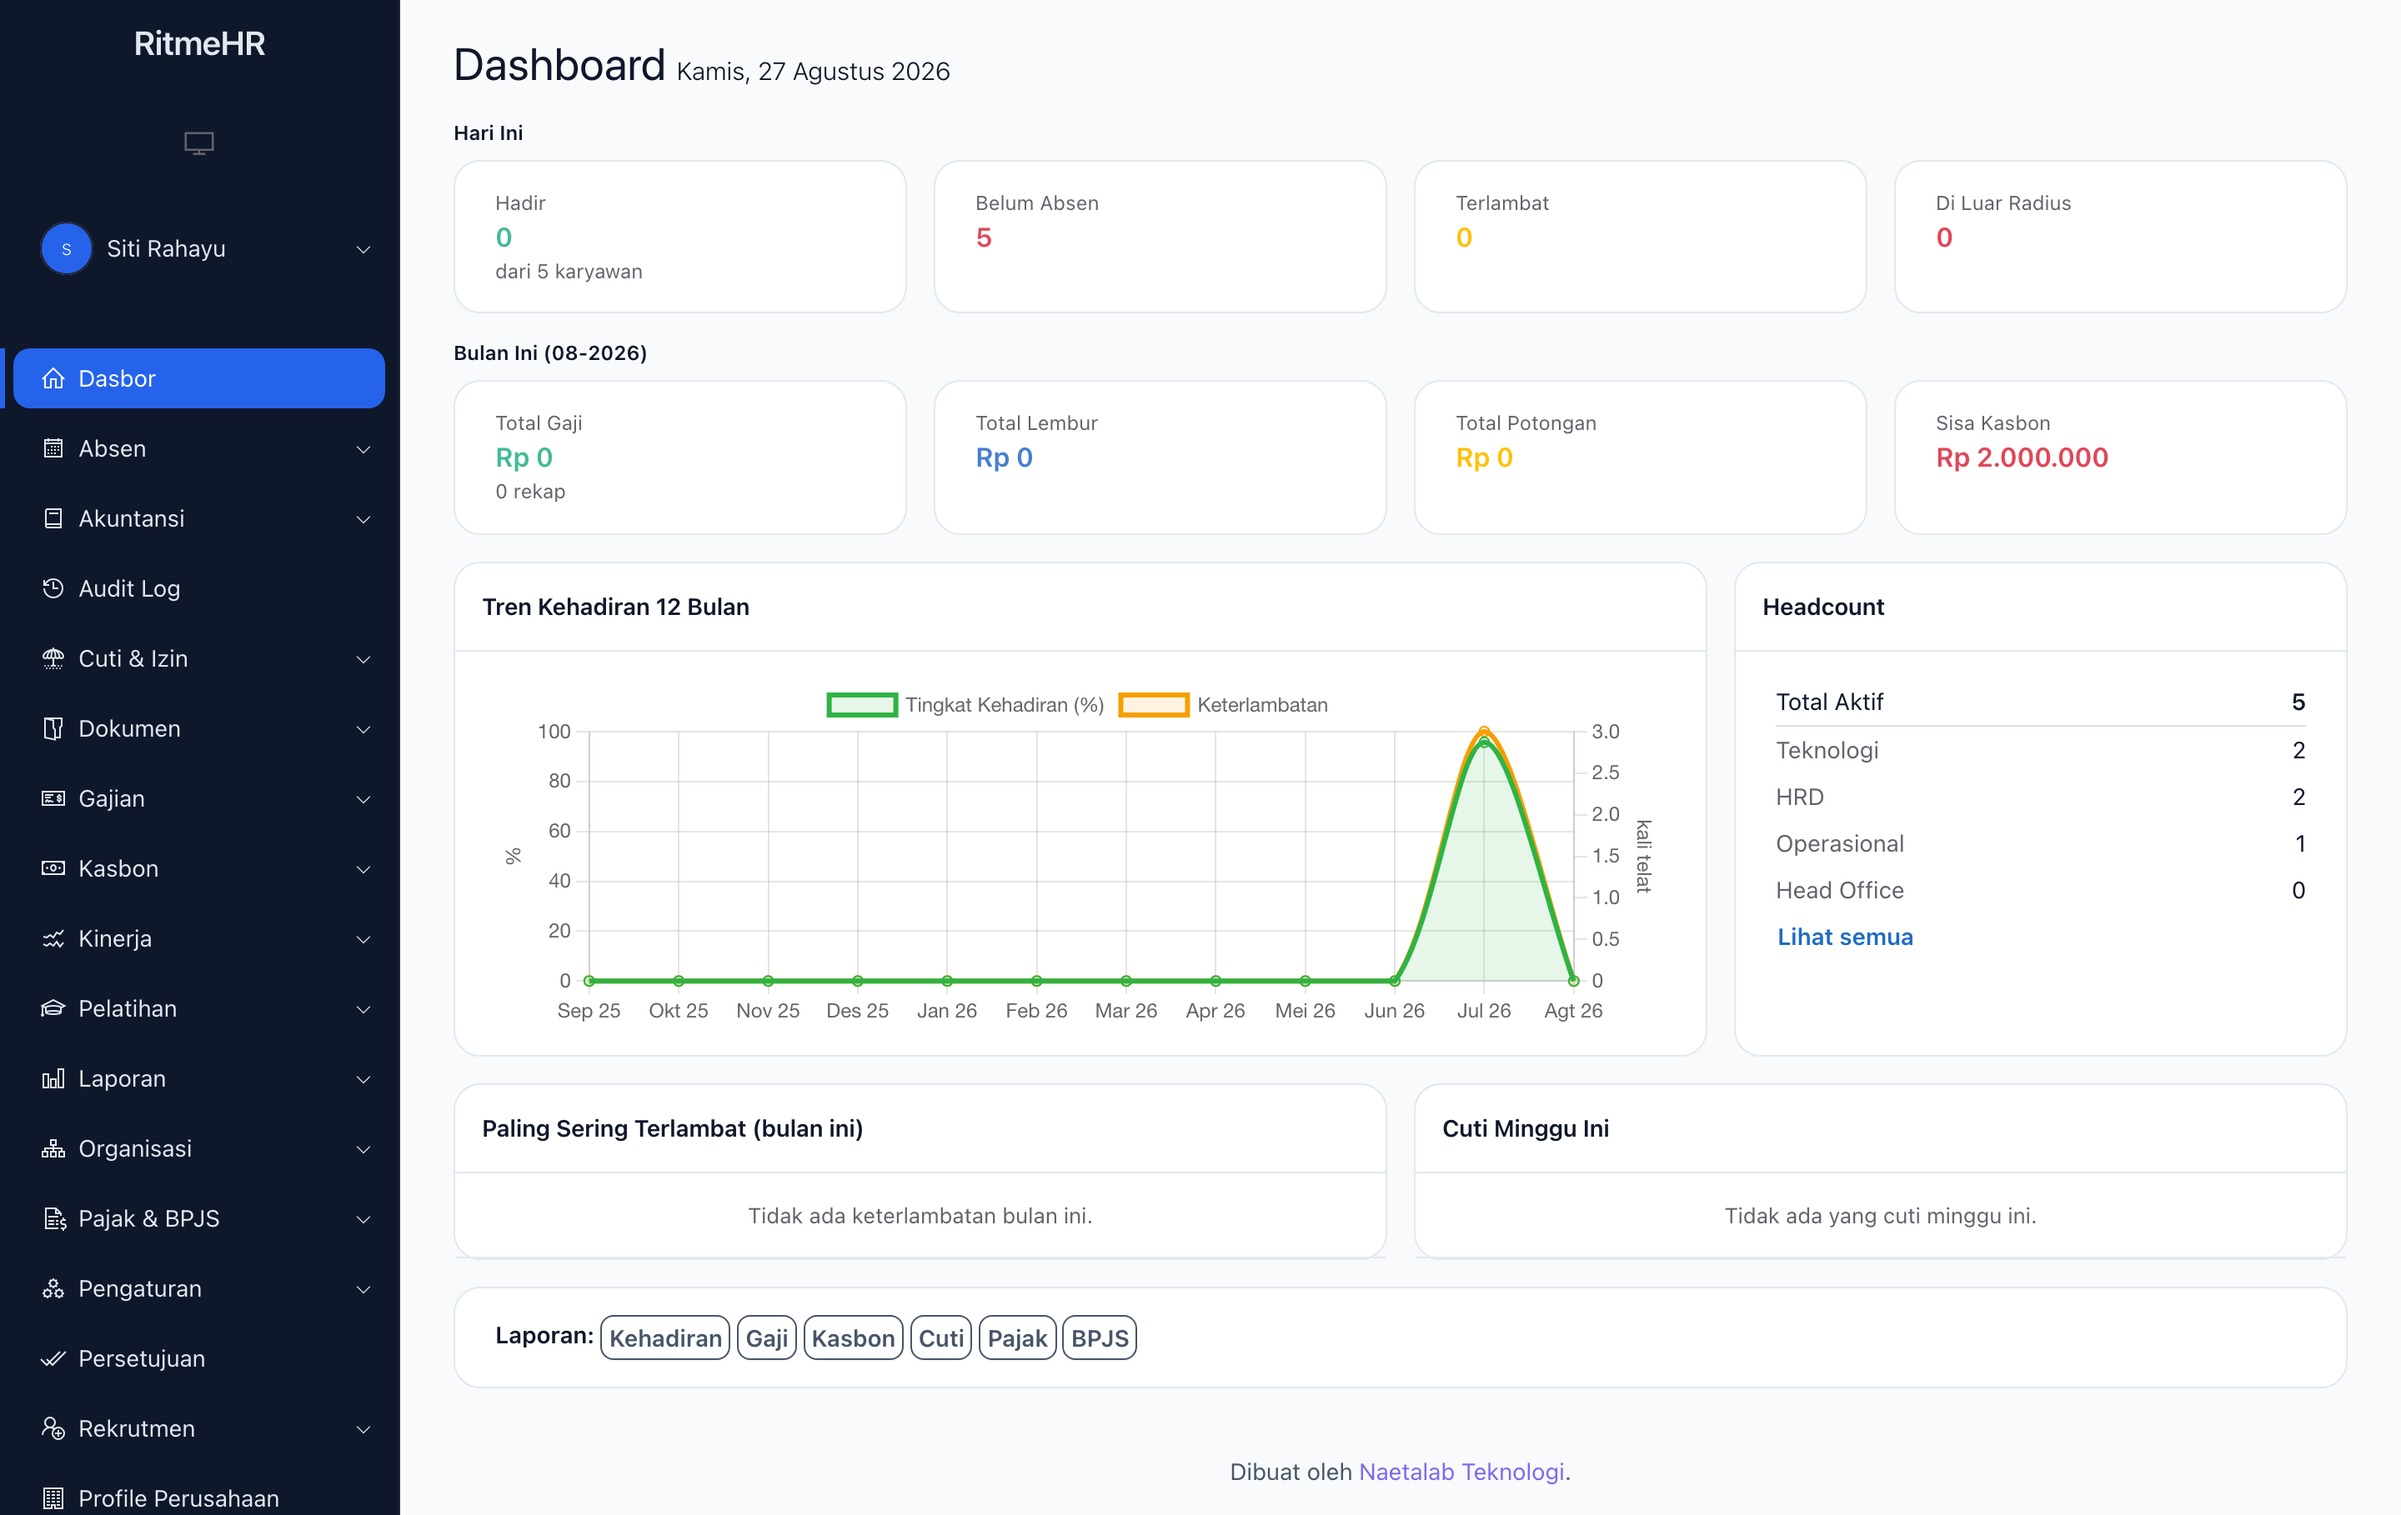
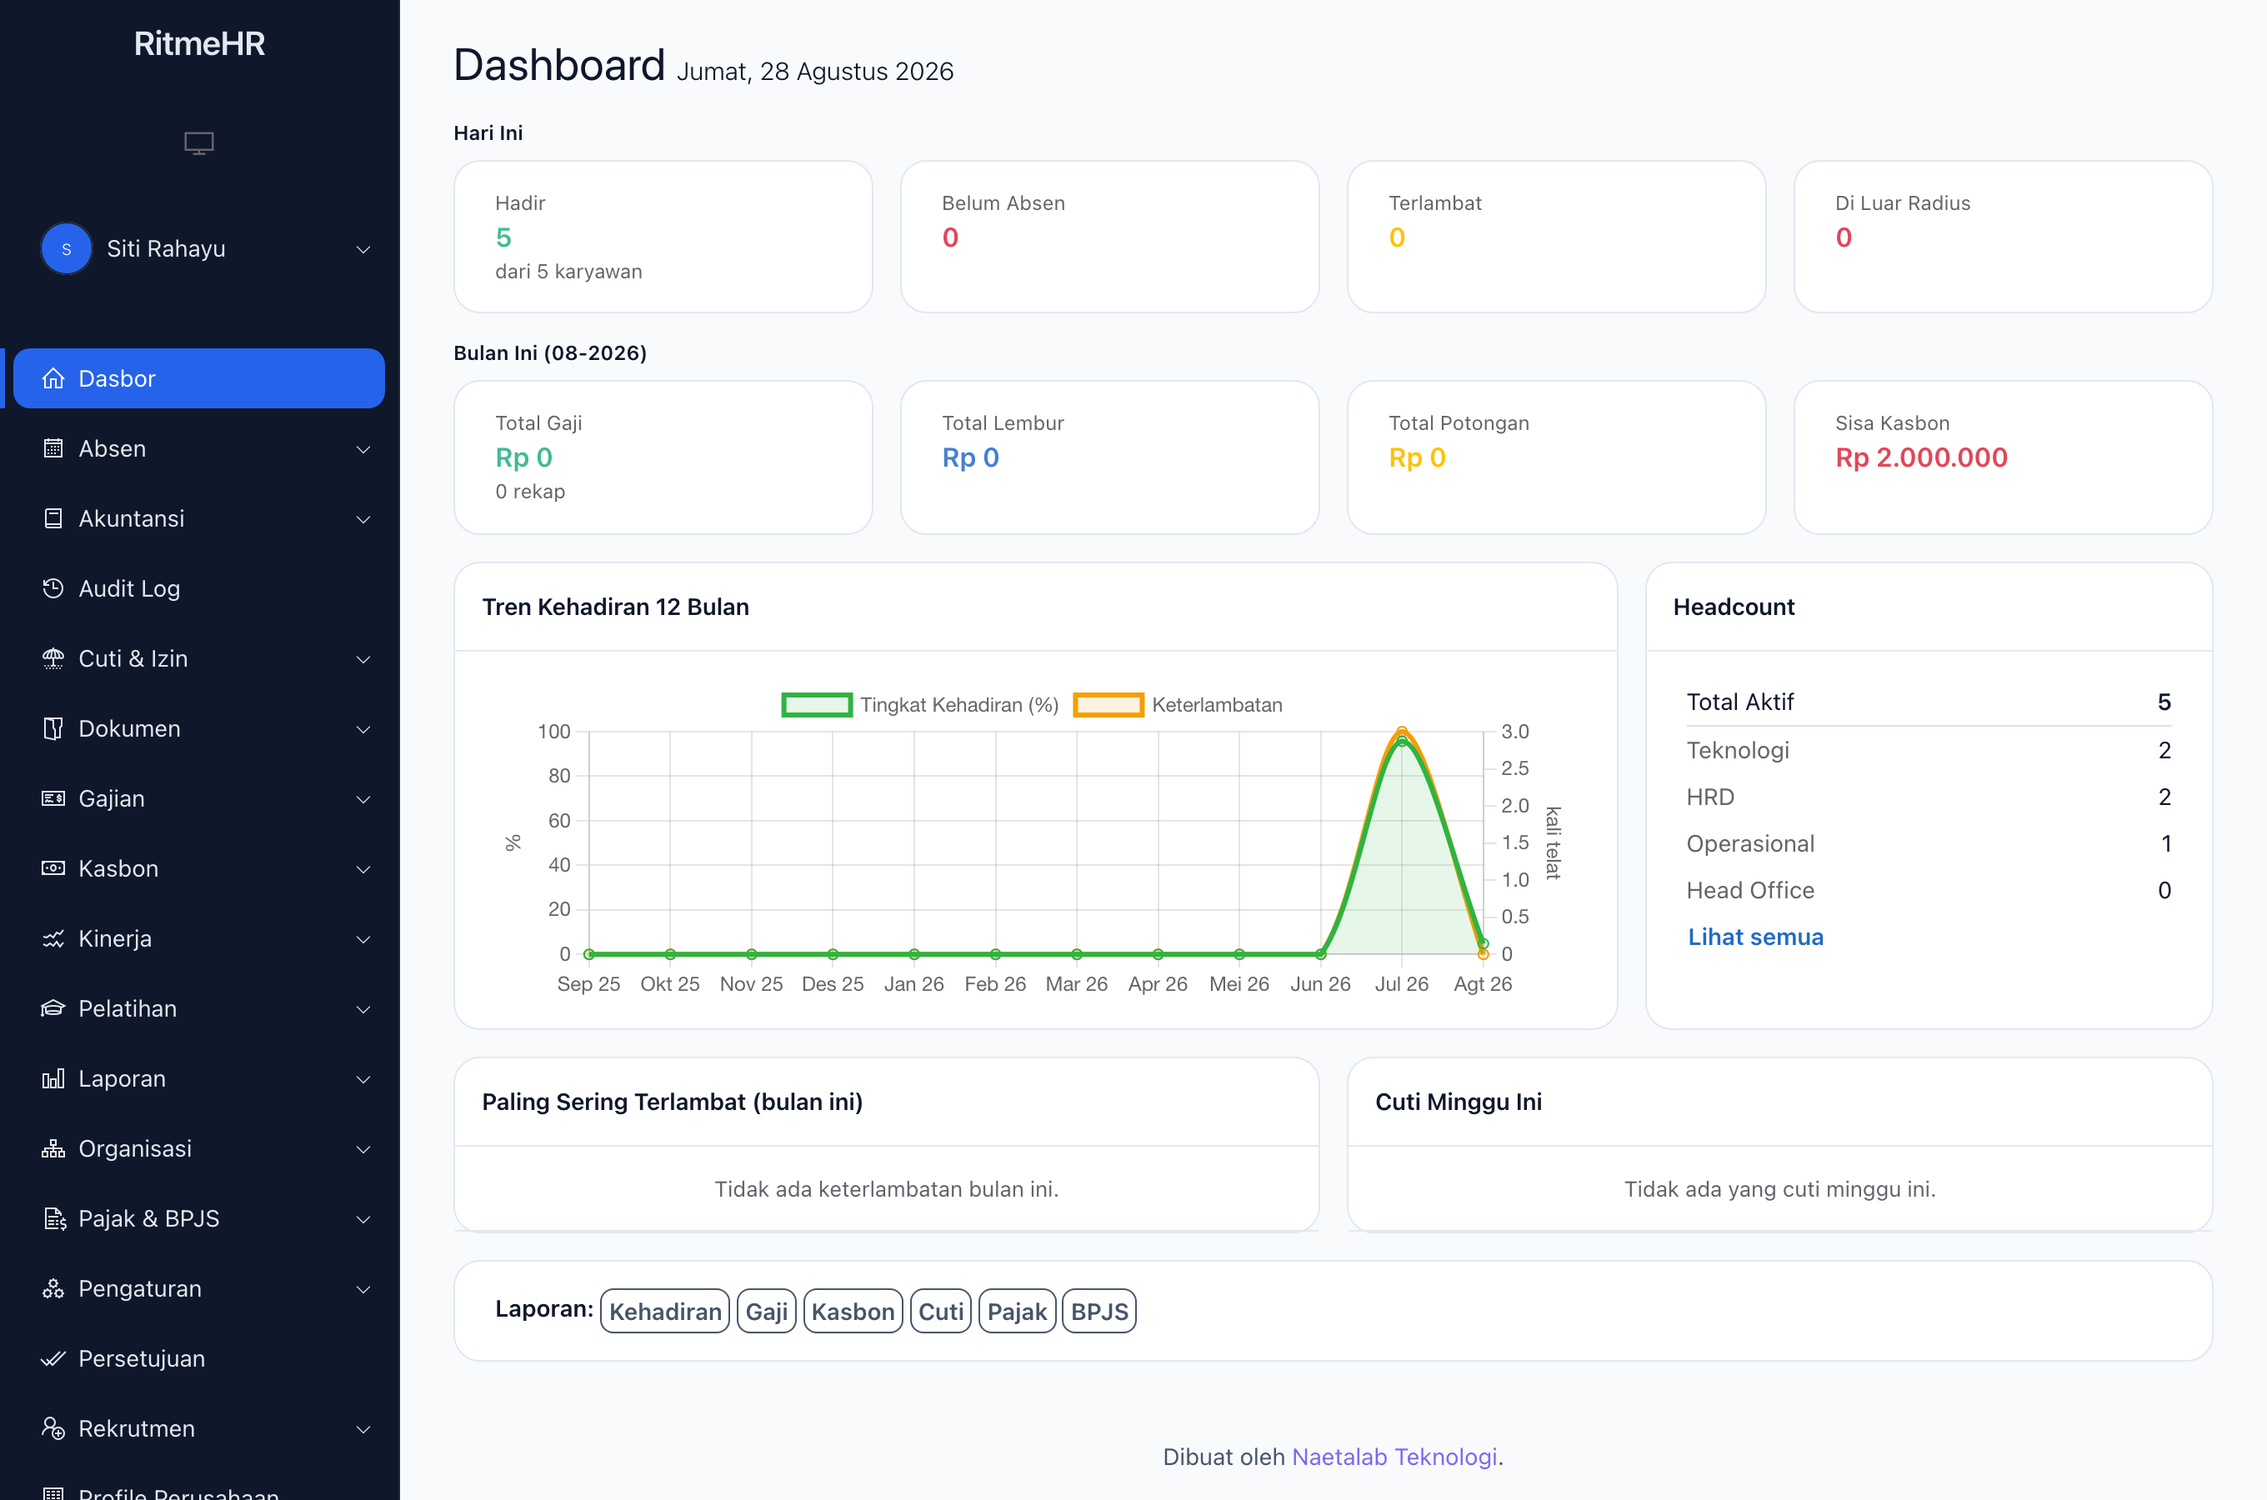
docs(readme): ganti Fonnte→WAHA, tambah 4 screenshot + data demo akuntansi
- README: catatan WhatsApp pakai WAHA (self-hosted), bukan FONNTE_TOKEN
- README section Tampilan: 4 screenshot (dashboard admin, slip gaji karyawan,
  kehadiran karyawan, neraca keuangan) dengan data demo yang terisi bagus
- DemoAccountingSeeder: 8 jurnal berimbang (Aset Rp 115jt, SEIMBANG) +
  akun Modal & Utang Usaha; idempoten (reference DEMO-ACC-NN)
- DemoDataSeeder: panggil DemoAccountingSeeder + tandai rekap bulan penuh 'Dibayar'
- .env.example: dokumentasikan ACC_ACTIVE

diff --git a/database/seeders/DemoAccountingSeeder.php b/database/seeders/DemoAccountingSeeder.php
@@ -1,0 +1,119 @@
+<?php
+
+namespace Database\Seeders;
+
+use App\Models\Account;
+use App\Models\JournalEntry;
+use App\Models\JournalLine;
+use Illuminate\Database\Seeder;
+use Illuminate\Support\Facades\DB;
+
+/**
+ * Demo accounting data — a small, BALANCED set of journal entries so the
+ * financial reports (buku besar, neraca saldo, neraca) have realistic figures
+ * for screenshots and evaluation.
+ *
+ * The story (one operating month):
+ *   - Setoran modal awal ke bank
+ *   - Pendapatan jasa diterima di bank
+ *   - Beban gaji, sewa, listrik dibayar
+ *   - Tarik tunai bank → kas, lalu kasbon karyawan & beban listrik dari kas
+ *   - Pembelian ATK secara kredit → menimbulkan utang usaha
+ *
+ * Result (seimbang): Aset = Rp 115.000.000 = Kewajiban Rp 1.500.000 +
+ * Ekuitas Rp 113.500.000 (Modal Rp 100.000.000 + Laba berjalan Rp 13.500.000).
+ *
+ * Idempotent: all entries carry reference 'DEMO-ACC'; a re-run clears and
+ * rebuilds only those, never touching payroll/loan auto-posted journals.
+ *
+ * NOT for production.
+ */
+class DemoAccountingSeeder extends Seeder
+{
+    private const REF = 'DEMO-ACC';
+
+    public function run(): void
+    {
+        if (app()->environment('production')) {
+            $this->command?->error('Refusing to seed demo accounting in production.');
+
+            return;
+        }
+
+        // 1) Pastikan akun modal & utang usaha ada (bagan default tak punya
+        //    equity/liability, sedangkan neraca membutuhkannya).
+        $extra = [
+            // code, name, type
+            ['2000', 'Utang Usaha',   Account::TYPE_LIABILITY],
+            ['3000', 'Modal Disetor', Account::TYPE_EQUITY],
+        ];
+        foreach ($extra as [$code, $name, $type]) {
+            Account::updateOrCreate(
+                ['code' => $code],
+                ['name' => $name, 'type' => $type, 'role' => null, 'is_cash' => false, 'is_active' => true]
+            );
+        }
+
+        $acc = Account::pluck('id', 'code'); // code => id
+
+        // 2) Bersihkan jurnal demo lama (idempoten) — hanya milik seeder ini.
+        JournalEntry::where('reference', 'like', self::REF . '%')->each(function (JournalEntry $e) {
+            $e->lines()->delete();
+            $e->delete();
+        });
+
+        $month = now()->subMonthNoOverflow()->startOfMonth();
+        $d = fn (int $day) => $month->copy()->addDays($day - 1)->toDateString();
+
+        // 3) Jurnal berimbang. Tiap item: [tanggal, deskripsi, kind, [ [akun, debit, kredit], ... ]]
+        $entries = [
+            [$d(1),  'Setoran modal awal pemilik',        JournalEntry::KIND_GENERAL, [
+                ['1100', 100_000_000, 0], ['3000', 0, 100_000_000],
+            ]],
+            [$d(5),  'Penerimaan pendapatan jasa proyek',  JournalEntry::KIND_INCOME, [
+                ['1100', 90_000_000, 0], ['4000', 0, 90_000_000],
+            ]],
+            [$d(25), 'Pembayaran gaji karyawan',           JournalEntry::KIND_EXPENSE, [
+                ['5000', 62_500_000, 0], ['1100', 0, 62_500_000],
+            ]],
+            [$d(3),  'Pembayaran sewa kantor',             JournalEntry::KIND_EXPENSE, [
+                ['5300', 10_000_000, 0], ['1100', 0, 10_000_000],
+            ]],
+            [$d(10), 'Tarik tunai bank ke kas',            JournalEntry::KIND_TRANSFER, [
+                ['1000', 10_000_000, 0], ['1100', 0, 10_000_000],
+            ]],
+            [$d(12), 'Pembayaran tagihan listrik',         JournalEntry::KIND_EXPENSE, [
+                ['5100', 2_500_000, 0], ['1000', 0, 2_500_000],
+            ]],
+            [$d(15), 'Pencairan kasbon karyawan (Ahmad)',  JournalEntry::KIND_GENERAL, [
+                ['1200', 3_000_000, 0], ['1000', 0, 3_000_000],
+            ]],
+            [$d(20), 'Pembelian ATK & perlengkapan (kredit)', JournalEntry::KIND_EXPENSE, [
+                ['5400', 1_500_000, 0], ['2000', 0, 1_500_000],
+            ]],
+        ];
+
+        DB::transaction(function () use ($entries, $acc) {
+            foreach ($entries as $i => [$date, $desc, $kind, $lines]) {
+                $entry = JournalEntry::create([
+                    'date'        => $date,
+                    'description' => $desc,
+                    'source'      => JournalEntry::SOURCE_MANUAL,
+                    'kind'        => $kind,
+                    'reference'   => self::REF . '-' . str_pad((string) ($i + 1), 2, '0', STR_PAD_LEFT),
+                ]);
+
+                foreach ($lines as [$code, $debit, $credit]) {
+                    JournalLine::create([
+                        'journal_entry_id' => $entry->id,
+                        'account_id'       => $acc[$code],
+                        'debit'            => $debit,
+                        'credit'           => $credit,
+                    ]);
+                }
+            }
+        });
+
+        $this->command?->info('Demo accounting seeded: 8 balanced entries (Aset Rp 115.000.000, seimbang).');
+    }
+}

diff --git a/database/seeders/DemoDataSeeder.php b/database/seeders/DemoDataSeeder.php
@@ -51,6 +51,10 @@ class DemoDataSeeder extends Seeder
         $this->loans($people, $calendar);
         $this->payroll($people, $calendar);
 
+        // Neraca/laporan keuangan demo (idempoten; butuh ACC_ACTIVE untuk
+        // muncul di menu, tapi datanya aman diseed kapan saja).
+        $this->call(DemoAccountingSeeder::class);
+
         $this->command?->newLine();
         $this->command?->info('Demo data ready. Log in at /admin/login:');
         $this->command?->table(
@@ -390,6 +394,10 @@ class DemoDataSeeder extends Seeder
             // tax and BPJS on top.
             app(\App\Services\SalaryService::class)->calculateSalaryRecap($recap);
             $tax->applyToRecap($recap->fresh());
+
+            // Tandai rekap bulan penuh sebagai sudah dibayar supaya slip gaji
+            // demo terlihat lengkap (status Dibayar), bukan menggantung.
+            $recap->fresh()->forceFill(['paid' => true, 'method' => 'transfer'])->saveQuietly();
         }
 
         $this->command?->info("Applied tax & BPJS to salary recaps for {$recapMonth}.");

diff --git a/README.md b/README.md
@@ -84,12 +84,32 @@ operasi di controller. Manager hanya melihat bawahan langsungnya.
 Dashboard admin dengan data demo pada sebuah hari kerja: kehadiran hari ini,
 tren 12 bulan, headcount per departemen, dan daftar keterlambatan.
 
-Kartu penggajian menunjukkan Rp 0 karena tangkapan layar ini diambil di
-pertengahan bulan — rekap gaji mengukur satu bulan penuh, sehingga baru terisi
-setelah perhitungan bulanan dijalankan. Perilaku ini disengaja, bukan kekosongan
-data.
+Kartu penggajian pada bagian "Bulan Ini" menunjukkan Rp 0 karena rekap gaji
+mengukur satu bulan penuh — baru terisi setelah perhitungan bulanan dijalankan.
+Perilaku ini disengaja, bukan kekosongan data.
+
+### Slip gaji karyawan
+![Slip gaji karyawan](docs/images/employee-payslip.png)
+
+Portal karyawan (`/my`) yang dikunci ke tampilan ponsel. Slip gaji memuat rincian
+pendapatan, potongan (PPh 21 & BPJS), nilai bersih diterima, dan status pembayaran.
+
+### Kehadiran karyawan
+![Kehadiran karyawan](docs/images/employee-attendance.png)
+
+Riwayat kehadiran mode agenda: ringkasan bulanan (hadir, terlambat, lembur, di
+luar radius) diikuti kartu per-hari lengkap dengan jam masuk/pulang, sumber
+absen (QR/kamera), dan bukti kehadiran.
+
+### Neraca keuangan
+![Neraca keuangan](docs/images/balance-sheet.png)
+
+Laporan neraca dari modul akuntansi internal (`ACC_ACTIVE=true`): aset, kewajiban,
+dan ekuitas dengan laba berjalan — selalu ditampilkan dengan penanda keseimbangan
+(Aset = Kewajiban + Ekuitas).
 
 ---
+
 
 ## Prasyarat
 
@@ -326,8 +346,9 @@ pemisah antar pelanggan; tidak ada kolom tenant di tabel inti.
 **Dokumen karyawan** disimpan di disk `local` yang privat, bukan `public`.
 Unduhan mengalir lewat aplikasi setelah pemeriksaan hak akses.
 
-**WhatsApp** memakai `LogWhatsAppGateway` yang hanya mencatat, sampai
-`FONNTE_TOKEN` diisi — supaya tidak ada notifikasi yang berpura-pura terkirim.
+**WhatsApp** memakai `LogWhatsAppGateway` yang hanya mencatat, sampai server
+**WAHA** (self-hosted, `waha_url` di pengaturan) dikonfigurasi — supaya tidak ada
+notifikasi yang berpura-pura terkirim.
 
 **Integrasi akuntansi** nonaktif kecuali `ACC_ACTIVE=true` diset di `.env`.
 
